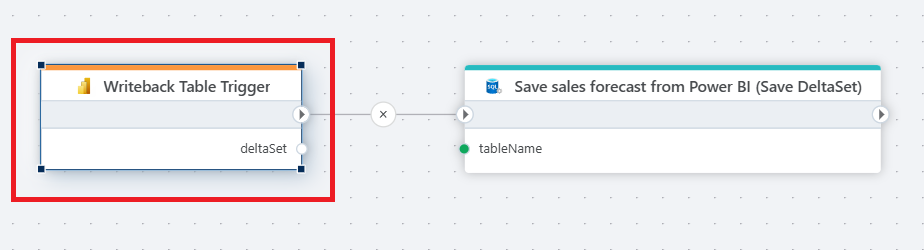
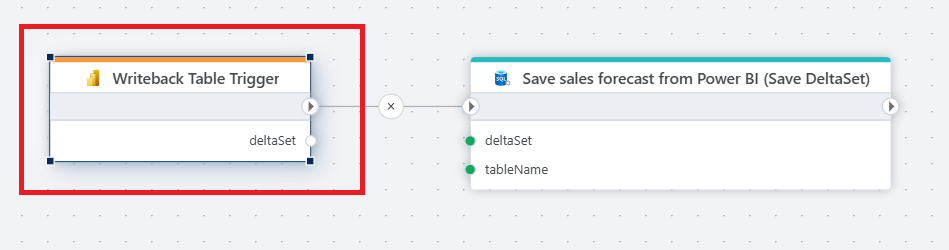
fix deltaset docs

Changed region(s): [[0.0, 0.084, 0.9697, 0.812], [0.5152, 0.756, 0.9091, 0.784]]

diff --git a/articles/flow/actions/sql-server/save-deltaset.md b/articles/flow/actions/sql-server/save-deltaset.md
@@ -11,7 +11,8 @@ A typical use case for this action is to save the changes made by users in the [
 |--------------|-----------|---------------------------------------------|
 | Title        | Optional  | A descriptive title of the action.          |
 | Connection   | Required  | The connection to the SQL Server / Azure SQL database. |
-| Table name   | Required  | The name of the table where data will be stored. If this differs from the table the data is read from in the Power BI model, ensure the target table has columns with matching names and data types as defined in the column definitions of the Writeback Table visual. |
+| DeltaSet     | Required  | The DeltaSet to save to the target table.   |
+| Target table | Required  | The name of the table where data will be stored. If this differs from the table the data is read from in the Power BI model, ensure the target table has columns with matching names and data types as defined in the column definitions of the Writeback Table visual. |
 | [Save data options](#save-data-options) | Optional | For advanced scenarios (see below), use this option to override the default behavior for applying DeltaSet changes.  |  
 | Command timeout | Optional | The time limit in seconds for command execution before it times out. Default is 120 seconds.|
 
